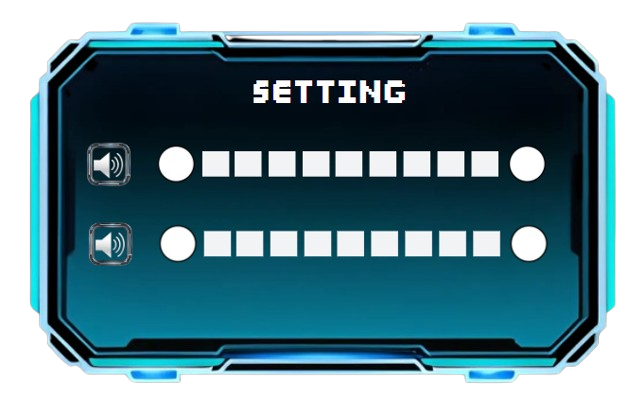
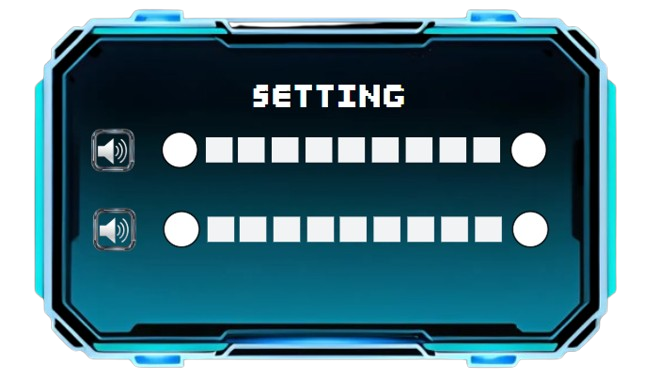
ád

diff --git a/core/src/main/java/com/main/Setting.java b/core/src/main/java/com/main/Setting.java
@@ -7,10 +7,13 @@ import com.badlogic.gdx.graphics.g2d.SpriteBatch;
 public class Setting {
 
     private Texture BackgroundScreen;
+    private Texture NenManHinh;
 
     public Setting(){
         //load ảnh background
         BackgroundScreen = new Texture("Stuffs/backgroundScreen.jpeg");
+        //load ảnh nền màn hình
+        NenManHinh = new Texture("Stuffs/anhnenSetting.png");
 
     }
 
@@ -21,9 +24,17 @@ public class Setting {
     public void render(SpriteBatch batch){
         //nền Background
         batch.draw(BackgroundScreen, 0, 0, Gdx.graphics.getWidth(), Gdx.graphics.getHeight());
+        // hiện ảnh trên nền background
+        batch.draw(NenManHinh,
+            (Gdx.graphics.getWidth() - NenManHinh.getWidth() * 1.5f) / 2,
+            (Gdx.graphics.getHeight() - NenManHinh.getHeight() * 1.5f) / 2,
+            NenManHinh.getWidth() * 1.5f,
+            NenManHinh.getHeight() * 1.5f);
+        
     }
 
     public void Dispose(){
         BackgroundScreen.dispose();
+        NenManHinh.dispose();
     }
 }
